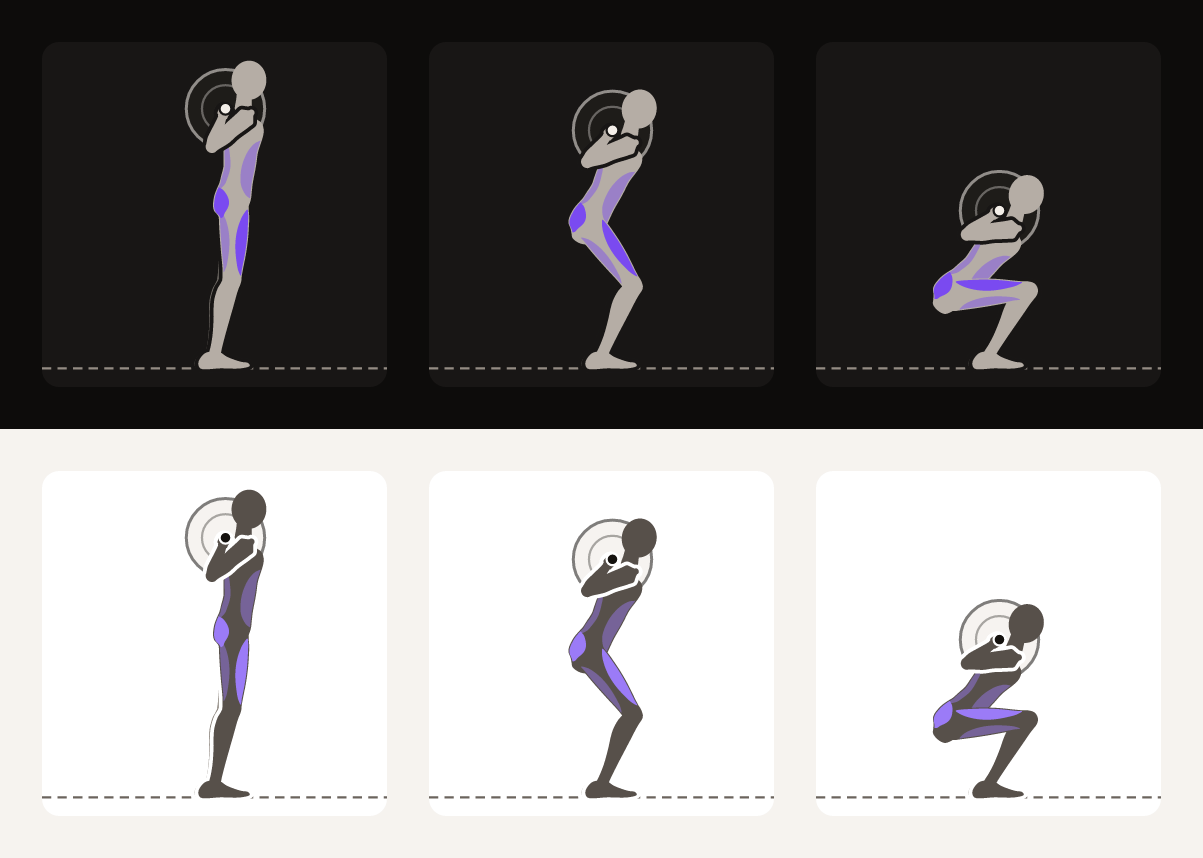
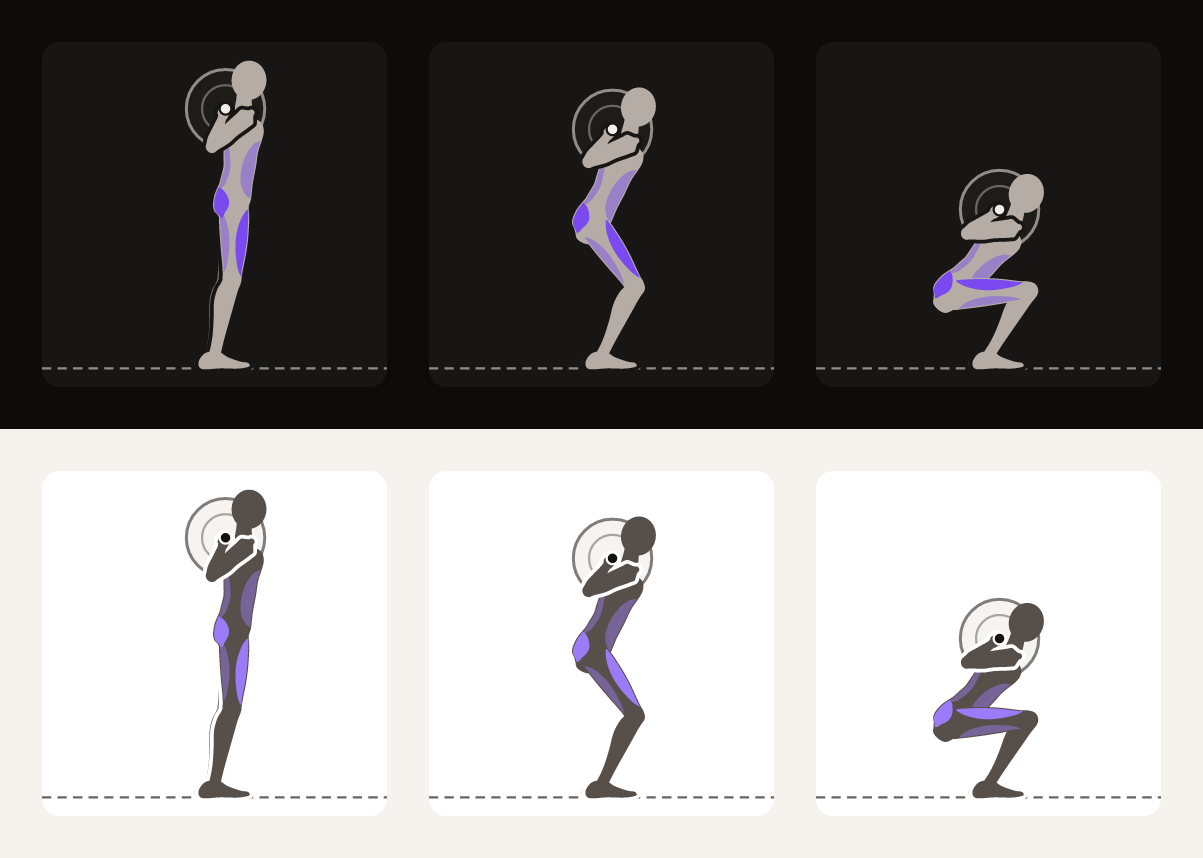
Guides: back squat in one seamless descent and drive (phase timing, draft pose change)
Ben: "why does it look like the joints don't operate smoothly in one
seamless motion". `motion: "phases"` with Halfway as a pass key: one
minimum-jerk movement down and one up, every joint on one clock.

- Timing: Halfway 0.2857 -> 0.1958, ascent 0.8214 -> 0.8776. These are the
  chord times with the bar weighted 1 and the hip 0.4, not the tool's equal
  weights (P1 warns 0.015 cycle): with equal weights (0.2110 / 0.8681) the
  bar starts too slowly (mid-phase stall 24.8% < 30%).
- Pose change for Ben: Halfway pelvis 25 -> 22.8 deg, root x -0.0399 ->
  -0.0282 (bar still over mid-foot); Bottom root (-0.1156, 0.234, 40) ->
  (-0.1151, 0.2372, 39.9): 3 mm higher, hip crease still below the knee.
  The plan's Halfway root.x -0.075 moves the bar 3.6% H off mid-foot.
- playback.test.ts: the Reduce Motion stop for Halfway is now t 0.1958.

guide:motion (HEAD -> now): 11 failing -> 2. Hip speed plateau gone (bar
mid-phase stall 8.1% -> 31.3%, peak tau 0.31 -> 0.37); ease into and out of
the bottom 12.8% / 24.8% -> 2.4% / 9.0% of peak; acceleration jump at the
hold edge 100.4% -> 8.8%; ankle humps 2 -> 1; ankle reversal 2.32 -> 0.07
deg; knee point backtrack 0.0098 -> 0.0003 H.

Still failing: knee/ankle sync (J3: 260 ms, gap 29.6%). The shin tilts
forward early and then holds while the hips keep dropping, as in a real
squat. Making the ankle keep pace means pushing the hips back first, which
stalls the bar at the start (M3 drops to 15%); the two conflict with the
[…]

diff --git a/packages/catalogue/test/playback.test.ts b/packages/catalogue/test/playback.test.ts
@@ -109,7 +109,7 @@ describe('key-frame stops (the Reduce Motion frames)', () => {
       [3, 'Bottom'],
     ]);
     expect(stops[2]?.caption).toBe('Hips just below knees, heels down');
-    expect(stops.map((s) => s.t)).toEqual([0, 0.2857, 0.5714]);
+    expect(stops.map((s) => s.t)).toEqual([0, 0.1958, 0.5714]);
   });
 
   it('match the catalogue entry key positions for every bundled guide', () => {
